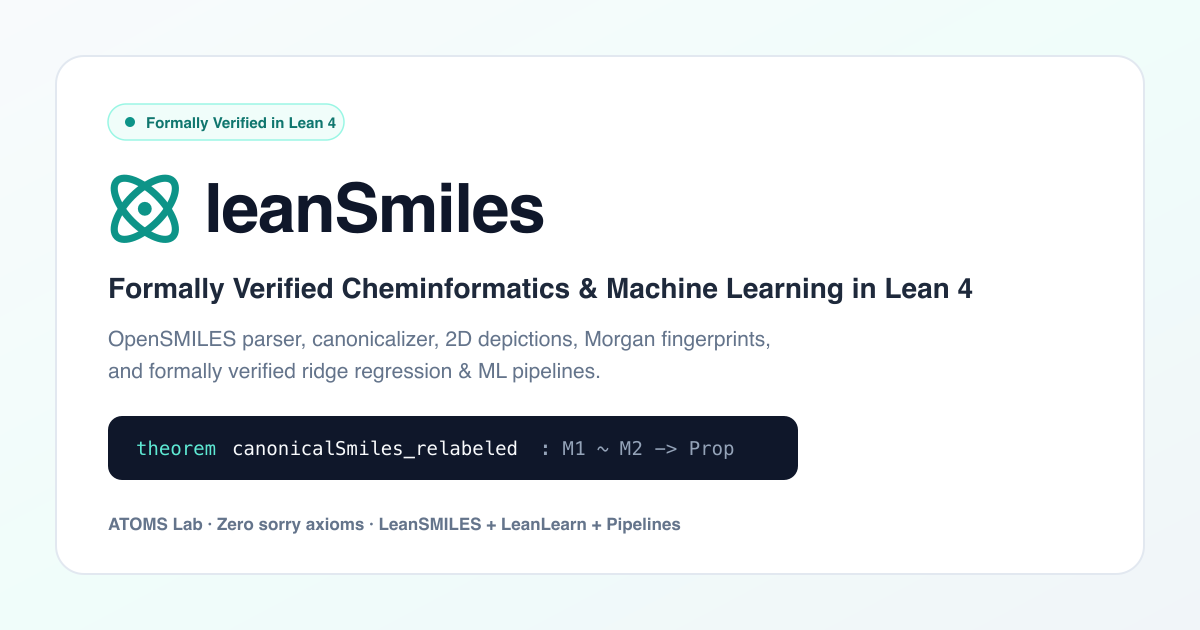
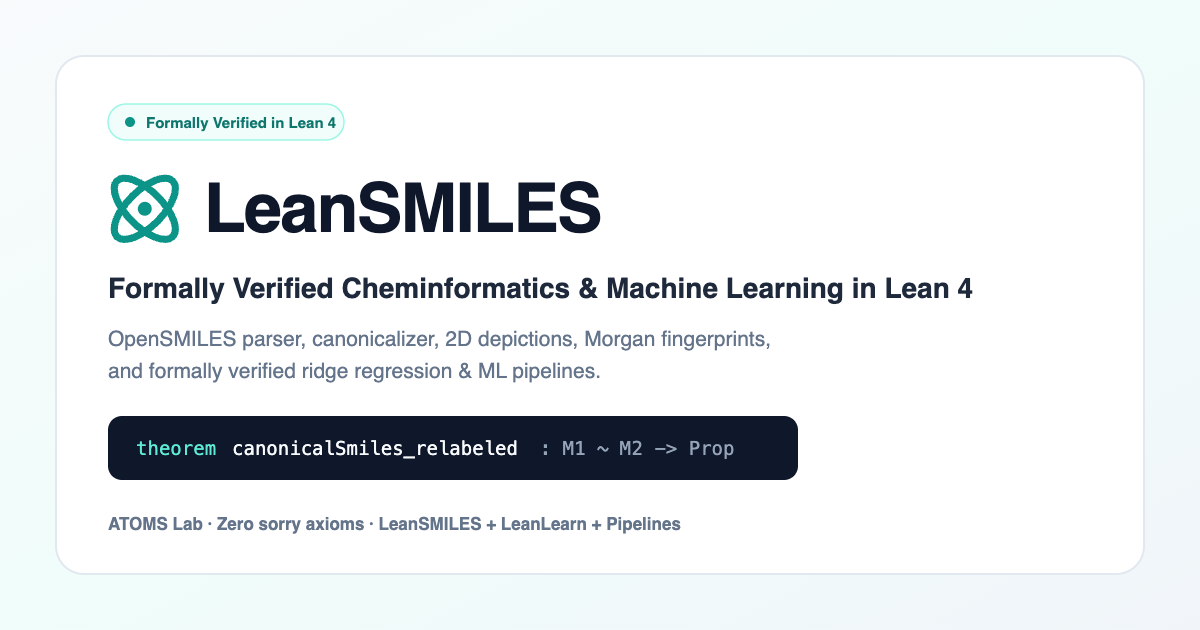
Capitalize LeanSMILES across the site; rename Data Pipes tab to Regression
Every "leanSmiles" in the navbar, footer, Open Graph tags, OG card SVG
and the server's startup line now reads "LeanSMILES". og-card.png is
re-rendered from the updated SVG at 1200x630.

diff --git a/client/index.html b/client/index.html
@@ -17,7 +17,7 @@
 
     <!-- Open Graph / Social Link Preview -->
     <meta property="og:type" content="website" />
-    <meta property="og:site_name" content="leanSmiles · ATOMS Lab" />
+    <meta property="og:site_name" content="LeanSMILES · ATOMS Lab" />
     <meta property="og:title" content="Formally Verified Cheminformatics &amp; ML in Lean 4" />
     <meta
       property="og:description"
@@ -27,7 +27,7 @@
     <meta property="og:image:type" content="image/png" />
     <meta property="og:image:width" content="1200" />
     <meta property="og:image:height" content="630" />
-    <meta property="og:image:alt" content="leanSmiles — Formally Verified Cheminformatics &amp; Machine Learning in Lean 4" />
+    <meta property="og:image:alt" content="LeanSMILES — Formally Verified Cheminformatics &amp; Machine Learning in Lean 4" />
 
     <!-- Twitter / X Card -->
     <meta name="twitter:card" content="summary_large_image" />

diff --git a/client/src/components/Navbar.jsx b/client/src/components/Navbar.jsx
@@ -5,7 +5,7 @@ import { Atom } from 'lucide-react'
 const LINKS = [
   { to: '/', label: 'Overview' },
   { to: '/lab', label: 'SMILES Interpreter' },
-  { to: '/datasets', label: 'Data Pipes' },
+  { to: '/datasets', label: 'Regression' },
 ]
 
 export default function Navbar() {
@@ -14,7 +14,7 @@ export default function Navbar() {
       <div className="max-w-5xl mx-auto px-4 sm:px-6 h-14 flex items-center justify-between gap-2">
         <NavLink to="/" className="flex items-center gap-1.5 sm:gap-2 font-semibold text-sm sm:text-base tracking-tight text-slate-900 shrink-0">
           <Atom size={18} className="text-teal-600 shrink-0" />
-          <span>leanSmiles</span>
+          <span>LeanSMILES</span>
         </NavLink>
 
         <nav className="flex items-center gap-0.5 sm:gap-1 overflow-x-auto">

diff --git a/server/index.js b/server/index.js
@@ -32,5 +32,5 @@ app.get('/api/health', (_req, res) => {
 app.use('/api', leanRoutes)
 
 app.listen(PORT, '0.0.0.0', () => {
-  console.log(`leanSmiles API server running on http://0.0.0.0:${PORT}`)
+  console.log(`LeanSMILES API server running on http://0.0.0.0:${PORT}`)
 })

diff --git a/client/src/App.jsx b/client/src/App.jsx
@@ -11,7 +11,7 @@ export default function App() {
         <AppRoutes />
       </main>
       <footer className="py-6 text-center text-xs text-slate-400">
-        leanSmiles · ATOMS Lab
+        LeanSMILES · ATOMS Lab
       </footer>
     </div>
   )
